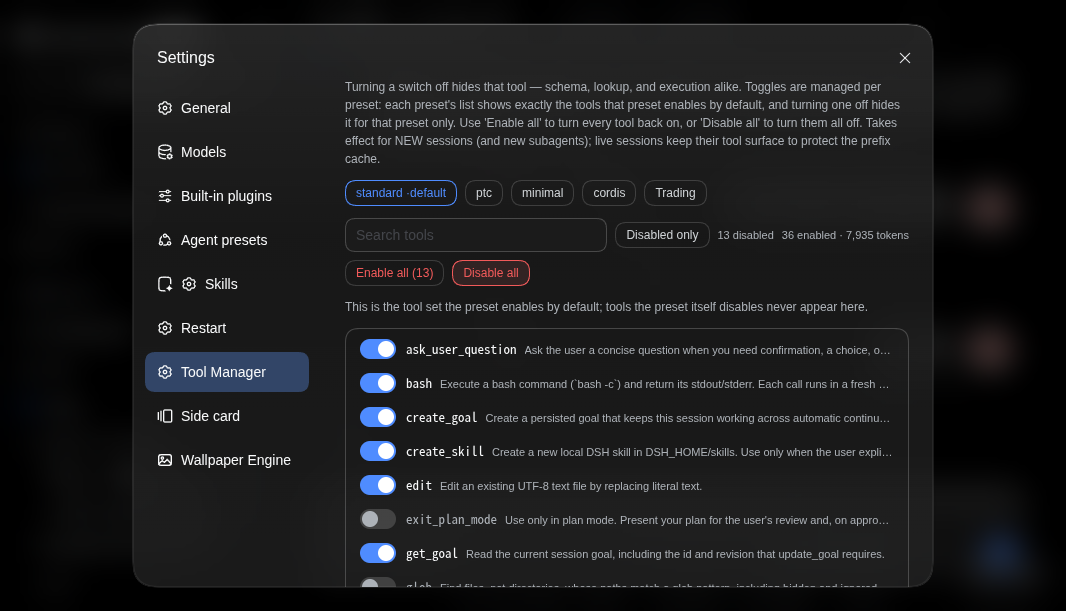
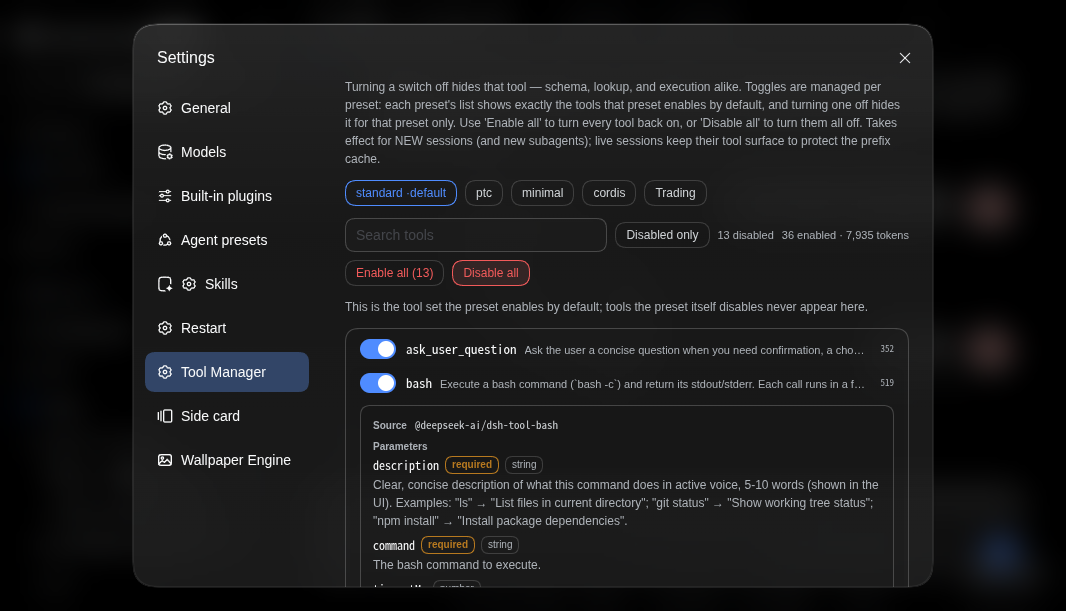
v0.6.1: move the token figure from the detail panel into the list row
Tiny 9px mono number, right-aligned per row (dimmed for hidden tools),
meaning on hover via title tooltip; the detail panel keeps source +
parameters + description only. Toolbar whole-block summary unchanged.

Changed region(s): [[0.3405, 0.6219, 0.8358, 0.964], [0.8049, 0.5597, 0.8358, 0.5908]]

diff --git a/lib/client.js b/lib/client.js
@@ -47,10 +47,8 @@ window.__ModuleLoader__.load({
 				"baseline.note": "아래 목록은 이 프리셋이 기본으로 켜는 도구입니다. 프리셋이 원래 끄는 도구는 목록에 나타나지 않습니다.",
 				"detail.source": "출처",
 				"detail.sourceUnknown": "출처 미상",
-				"detail.tokens": "컨텍스트 토큰",
-				"detail.tokensUnit": "tokens",
-				"detail.tokensNote": "{tokenizer}(실제 토크나이저)로 이 도구 정의가 프롬프트에 차지하는 토큰을 측정 — 켜져 있으면 매 요청 프리픽스에 반복 포함됩니다.",
-				"detail.tokensLoading": "토크나이저 로딩 중… (첫 로드는 수 초 걸립니다)",
+				"row.tokensTitle": "컨텍스트 {tokens} 토큰 ({tokenizer} 실측) — 이 도구 정의가 프롬프트에 차지하는 토큰. 켜져 있으면 매 요청 프리픽스에 반복 포함됩니다.",
+				"row.tokensLoading": "토크나이저 로딩 중… (첫 로드는 수 초 걸립니다)",
 				"tokens.summary": "활성 {count}개 · {tokens} 토큰",
 				"tokens.summaryTitle": "활성 도구 전체 블록(도구별 정의 + 안내 헤더)을 실제 토크나이저로 측정한 컨텍스트 토큰. 매 요청의 프리픽스에 반복 포함되는 비용입니다.",
 				"tokens.unavailable": "토크나이저를 불러올 수 없어 토큰 수를 표시하지 않습니다: {error}",
@@ -88,10 +86,8 @@ window.__ModuleLoader__.load({
 				"baseline.note": "This is the tool set the preset enables by default; tools the preset itself disables never appear here.",
 				"detail.source": "Source",
 				"detail.sourceUnknown": "unknown source",
-				"detail.tokens": "Context tokens",
-				"detail.tokensUnit": "tokens",
-				"detail.tokensNote": "Tokens this tool definition occupies in the prompt, measured with {tokenizer} (the real tokenizer) — repeated in every request prefix while enabled.",
-				"detail.tokensLoading": "loading tokenizer… (first load takes a few seconds)",
+				"row.tokensTitle": "{tokens} context tokens (measured with {tokenizer}) — what this tool definition occupies in the prompt; repeated in every request prefix while enabled.",
+				"row.tokensLoading": "loading tokenizer… (first load takes a few seconds)",
 				"tokens.summary": "{count} enabled · {tokens} tokens",
 				"tokens.summaryTitle": "Context tokens of the whole active tool block (per-tool definitions + instruction header), measured with the real tokenizer. This is the recurring prefix cost in every request.",
 				"tokens.unavailable": "Tokenizer unavailable, so token counts are hidden: {error}",
@@ -143,7 +139,7 @@ window.__ModuleLoader__.load({
 				".dtt-disable{border-color:var(--dsw-alias-state-error-primary,#ef7272);background:var(--dsw-alias-state-error-bg,rgba(239,114,114,.12))}",
 				".dtt-disable:hover{background:rgba(239,114,114,.28)}",
 				".dtt-list{border:.5px solid var(--dsw-alias-border-l4,#e4e4e7);border-radius:var(--dsw-radius-lg,12px);gap:2px;min-width:0;margin:0;padding:4px;display:grid}",
-				".dtt-row{grid-template-columns:auto minmax(0,1fr);align-items:center;gap:10px;min-width:0;padding:6px 10px;border-radius:var(--dsw-radius-md,8px);display:grid}",
+				".dtt-row{grid-template-columns:auto minmax(0,1fr) auto;align-items:center;gap:10px;min-width:0;padding:6px 10px;border-radius:var(--dsw-radius-md,8px);display:grid}",
 				".dtt-row:hover{background:var(--dsw-alias-bg-layer-4,rgba(0,0,0,.05))}",
 				".dtt-row-main{grid-template-columns:minmax(0,auto) minmax(0,1fr);align-items:baseline;gap:8px;min-width:0;display:grid;cursor:pointer}",
 				".dtt-row-name{color:var(--dsw-alias-label-primary,#222226);font-size:13px;line-height:1.5;font-family:var(--dsw-font-mono,ui-monospace,SFMono-Regular,Menlo,monospace);white-space:nowrap}",
@@ -157,9 +153,9 @@ window.__ModuleLoader__.load({
 				".dtt-detail-label{color:var(--dsw-alias-label-tertiary,#8a8a8f);font-size:10px;font-weight:600}",
 				".dtt-detail-source-value{color:var(--dsw-alias-label-secondary,#6b6b70);font-family:var(--dsw-font-mono,ui-monospace,SFMono-Regular,Menlo,monospace);font-size:11px;line-height:1.5;overflow-wrap:anywhere}",
 				".dtt-detail-source-value.is-unknown{color:var(--dsw-alias-label-tertiary,#8a8a8f);font-style:italic}",
-				".dtt-detail-tokens{display:flex;align-items:baseline;gap:8px;flex-wrap:wrap;min-width:0}",
-				".dtt-detail-tokens-value{color:var(--dsw-alias-label-primary,#222226);font-family:var(--dsw-font-mono,ui-monospace,SFMono-Regular,Menlo,monospace);font-size:13px;font-weight:600;white-space:nowrap}",
-				".dtt-detail-tokens-note{color:var(--dsw-alias-label-tertiary,#8a8a8f);font-size:10px;line-height:1.5;flex-basis:100%;margin:0}",
+				/* Tiny per-row token figure: right-aligned mono number, meaning on hover. */
+				".dtt-row-tokens{color:var(--dsw-alias-label-tertiary,#8a8a8f);font-family:var(--dsw-font-mono,ui-monospace,SFMono-Regular,Menlo,monospace);font-size:9px;line-height:1.4;white-space:nowrap;text-align:right;align-self:center;justify-self:end;padding-left:4px}",
+				".dtt-row.is-off .dtt-row-tokens{opacity:.55}",
 				".dtt-detail-params{display:grid;gap:4px;min-width:0}",
 				".dtt-detail-pre{margin:0;padding:8px 10px;max-height:240px;overflow:auto;background:var(--dsw-alias-bg-layer-4,rgba(0,0,0,.05));border-radius:var(--dsw-radius-md,8px);color:var(--dsw-alias-label-primary,#222226);font-family:var(--dsw-font-mono,ui-monospace,SFMono-Regular,Menlo,monospace);font-size:11px;line-height:1.5;white-space:pre}",
 				".dtt-detail-noparams{color:var(--dsw-alias-label-tertiary,#8a8a8f);font-size:11px;line-height:1.5}",
@@ -569,6 +565,21 @@ window.__ModuleLoader__.load({
 											React.createElement("span", { className: "dtt-row-name" }, tool.name),
 											React.createElement("span", { className: "dtt-row-desc", title: tool.description }, tool.description),
 										),
+										/*
+										 * Context tokens for THIS tool definition, counted by the
+										 * host with the model family's real tokenizer on the text the
+										 * serving template renders per tool. Shown as a tiny right-aligned
+										 * number in the LIST row (v0.6.1); the meaning lives on hover, and
+										 * the toolbar carries the exact whole-block total.
+										 */
+										React.createElement("span", {
+											className: "dtt-row-tokens",
+											title: tool.tokens != null && tool.tokens.prompt != null
+												? t("row.tokensTitle", { tokens: tool.tokens.prompt.toLocaleString(), tokenizer: state.tokenStats?.tokenizer ?? "" })
+												: state.tokenStats?.status === "loading" ? t("row.tokensLoading") : undefined,
+										}, tool.tokens != null && tool.tokens.prompt != null
+											? tool.tokens.prompt.toLocaleString()
+											: state.tokenStats?.status === "loading" ? "…" : ""),
 										expanded ? React.createElement("div", { className: "dtt-detail" },
 											React.createElement("div", { className: "dtt-detail-source" },
 												React.createElement("span", { className: "dtt-detail-label" }, t("detail.source")),
@@ -576,26 +587,6 @@ window.__ModuleLoader__.load({
 													? React.createElement("span", { className: "dtt-detail-source-value" }, tool.sourcePlugin)
 													: React.createElement("span", { className: "dtt-detail-source-value is-unknown" }, t("detail.sourceUnknown")),
 											),
-											/*
-										 * Context tokens for THIS tool definition, counted by the
-										 * host with the model family's real tokenizer on the text the
-										 * serving template renders per tool. While the tokenizer is
-										 * still loading, keep the row present with a loading note so
-										 * the panel does not reflow when the figure lands.
-										 */
-										React.createElement("div", { className: "dtt-detail-tokens" },
-											React.createElement("span", { className: "dtt-detail-label" }, t("detail.tokens")),
-											tool.tokens != null && tool.tokens.prompt != null
-												? React.createElement(React.Fragment, null,
-													React.createElement("span", { className: "dtt-detail-tokens-value" }, `${tool.tokens.prompt.toLocaleString()} ${t("detail.tokensUnit")}`),
-													state.tokenStats != null && state.tokenStats.tokenizer !== ""
-														? React.createElement("span", { className: "dtt-detail-tokens-note" }, t("detail.tokensNote", { tokenizer: state.tokenStats.tokenizer }))
-														: null,
-												)
-												: state.tokenStats?.status === "loading"
-													? React.createElement("span", { className: "dtt-detail-tokens-note" }, t("detail.tokensLoading"))
-													: null,
-										),
 										React.createElement("div", { className: "dtt-detail-params" },
 												React.createElement("span", { className: "dtt-detail-label" }, t("detail.parameters")),
 												tool.parameters != null

diff --git a/README.md b/README.md
@@ -1,7 +1,7 @@
 # dsh-tool-manager
 
 [![Platform: DSH Web plugin](https://img.shields.io/badge/platform-DSH_Web_plugin-2563eb)](https://github.com/pinion05/dsh-tool-manager)
-[![Version: 0.6.0](https://img.shields.io/badge/version-0.6.0-blue)](https://github.com/pinion05/dsh-tool-manager/releases)
+[![Version: 0.6.0](https://img.shields.io/badge/version-0.6.1-blue)](https://github.com/pinion05/dsh-tool-manager/releases)
 [![License: MIT](https://img.shields.io/badge/license-MIT-green)](./LICENSE)
 
 <p align="center"><img src="icon.svg" width="120" alt="Tool Manager icon — two switches, one on and one off" /></p>
@@ -34,7 +34,7 @@ No schema, no lookup, no execution — and no mention in the system prompt. The 
 
 ## Real-tokenizer context accounting (v0.6.0)
 
-Every tool row's detail panel carries a **Context tokens** figure, and the toolbar summarizes the whole active tool block (`36 enabled · 7,935 tokens`). These are *measured*, not estimated:
+Every tool row carries a tiny right-aligned **context-token figure** (hover for the meaning), and the toolbar summarizes the whole active tool block (`36 enabled · 7,935 tokens`). These are *measured*, not estimated:
 
 - **The model's own tokenizer.** Counts use the GLM-5.3 byte-level BPE loaded from zai-org's published `tokenizer.json` (vocab 154,820, GPT-2-lineage Ġ/Ċ byte-level with `ignore_merges`). The encoder is implemented in ~100 lines inside the plugin and was fuzz-verified **1:1 against the official Rust `tokenizers` crate** (296/296 random + 13/13 structured cases, including Korean, JSON, contractions, and special-token strings).
 - **The text the serving stack actually renders.** GLM serving passes each tool through the chat template's `tool_to_json` macro — the OpenAI `function` wrapper is unwrapped, `strict`/`defer_loading` dropped, and `{"name": …, "description": …, "parameters": …}` emitted with Python `json.dumps` spacing, one line per tool inside `<tools></tools>`. The plugin replicates that byte-for-byte (plus the fixed instruction header/footer) and counts the **concatenated** block, so tokens straddling seams are attributed exactly once.
@@ -43,7 +43,7 @@ Every tool row's detail panel carries a **Context tokens** figure, and the toolb
 The tokenizer file loads lazily on first use (the page polls and fills the figures in), then caches under `~/.dsh/cache/tool-manager/tokenizer.json`. Two config knobs on the plugin row: `tokenizerPath` (absolute path to any HF `tokenizer.json` — e.g. a future GLM release) and `tokenizerUrl` (download source). Offline? The figures are simply hidden with an inline note; nothing else degrades.
 
 <p align="center">
-  <img src="docs/context-tokens.png" width="72%" alt="Detail panel for windmill_scripts showing Context tokens: 1,143 tokens measured with GLM-5.3, and the toolbar summary 36 enabled · 7,935 tokens" />
+  <img src="docs/context-tokens.png" width="72%" alt="Tool list with tiny per-row token counts (9px, right-aligned), bash detail panel expanded, and the toolbar summary 36 enabled · 7,935 tokens" />
 </p>
 
 ## Highlights
